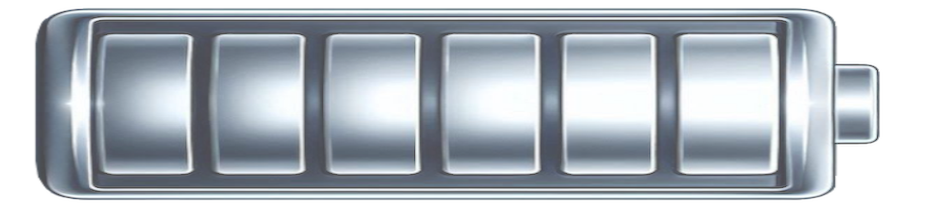
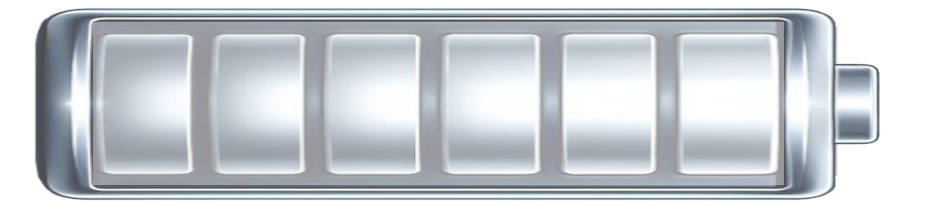
better config settings

diff --git a/Dialogs/CloseAppDialog.xaml b/Dialogs/CloseAppDialog.xaml
@@ -7,6 +7,7 @@
     xmlns:d="http://schemas.microsoft.com/expression/blend/2008"
     xmlns:local="using:BatteryMonitor.Dialogs"
     xmlns:mc="http://schemas.openxmlformats.org/markup-compatibility/2006"
+    x:Name="root"
     BorderBrush="{StaticResource GradientBarBrush}"
     BorderThickness="3"
     CloseButtonText="Cancel"
@@ -47,7 +48,7 @@
             </Grid.ColumnDefinitions>
             <ctrl:CompShadow
                 Grid.Column="0"
-                Margin="0,4,0,0"
+                Margin="0,1,0,0"
                 HorizontalAlignment="Left"
                 VerticalAlignment="Top"
                 BlurRadius="1"

diff --git a/MainPage.xaml b/MainPage.xaml
@@ -93,11 +93,12 @@
             VerticalAlignment="Center">
 
             <Image
+                x:Name="imgBattery"
                 Margin="-10"
                 HorizontalAlignment="Center"
                 VerticalAlignment="Center"
-                Opacity="0.9"
-                Source="ms-appx:///Assets/Background6.png"
+                Opacity="0.75"
+                Source="ms-appx:///Assets/Background5.png"
                 Stretch="Uniform" />
 
             <!--<Rectangle

diff --git a/Converters/AmountToBrushConverter.cs b/Converters/AmountToBrushConverter.cs
@@ -12,38 +12,33 @@ public class AmountToBrushConverter : IValueConverter
 {
     public object? Convert(object value, Type targetType, object parameter, string language)
     {
-        SolidColorBrush result = new(Microsoft.UI.Colors.DodgerBlue);
+        SolidColorBrush result = new(Microsoft.UI.Colors.White);
 
-        if (App.Current.Resources.TryGetValue("SecondaryThemeBrush", out object _))
-            result = (Microsoft.UI.Xaml.Media.SolidColorBrush)App.Current.Resources["SecondaryBrush"];
+        if (App.Current.Resources.TryGetValue("PrimaryBrush", out object _))
+            result = (Microsoft.UI.Xaml.Media.SolidColorBrush)App.Current.Resources["PrimaryBrush"];
 
         if (value == null || App.IsClosing)
             return result;
 
-        if (double.TryParse($"{value}", System.Globalization.NumberStyles.Float | System.Globalization.NumberStyles.AllowThousands | System.Globalization.NumberStyles.AllowCurrencySymbol, System.Globalization.CultureInfo.CurrentCulture, out double amnt))
+        if (value is string str && !string.IsNullOrEmpty(str))
         {
-            switch (amnt)
+            str = str.Replace("%","").Replace("$", "");
+            if (double.TryParse(str, System.Globalization.NumberStyles.Float | System.Globalization.NumberStyles.AllowThousands | System.Globalization.NumberStyles.AllowCurrencySymbol, System.Globalization.CultureInfo.CurrentCulture, out double amnt))
             {
-                #region [Original palette]
-                //case double t when t >= 10000d: return new SolidColorBrush(Microsoft.UI.Colors.Red);
-                //case double t when t >= 5000d:  return new SolidColorBrush(Microsoft.UI.Colors.OrangeRed);
-                //case double t when t >= 1000d:  return new SolidColorBrush(Microsoft.UI.Colors.Orange);
-                //case double t when t >= 500d:   return new SolidColorBrush(Microsoft.UI.Colors.Gold);
-                //case double t when t >= 100d:   return new SolidColorBrush(Microsoft.UI.Colors.Yellow);
-                //default: return result;
-                #endregion
-                case double t when t >= 10000d: return new SolidColorBrush(Windows.UI.Color.FromArgb(255, 255, 10, 5));  
-                case double t when t >= 5000d:  return new SolidColorBrush(Windows.UI.Color.FromArgb(255, 255, 39, 17));
-                case double t when t >= 2000d:  return new SolidColorBrush(Windows.UI.Color.FromArgb(255, 244, 86, 17));
-                case double t when t >= 1000d:  return new SolidColorBrush(Windows.UI.Color.FromArgb(255, 236, 102, 11));
-                case double t when t >= 800d:   return new SolidColorBrush(Windows.UI.Color.FromArgb(255, 242, 139, 11));
-                case double t when t >= 600d:   return new SolidColorBrush(Windows.UI.Color.FromArgb(255, 255, 165, 0));
-                case double t when t >= 400d:   return new SolidColorBrush(Windows.UI.Color.FromArgb(255, 255, 184, 5));
-                case double t when t >= 200d:   return new SolidColorBrush(Windows.UI.Color.FromArgb(255, 255, 201, 5));
-                case double t when t >= 100d:   return new SolidColorBrush(Windows.UI.Color.FromArgb(255, 255, 229, 5));
-                case double t when t >= 50d:   return new SolidColorBrush(Windows.UI.Color.FromArgb(255, 255, 251, 100));
-                //case double t when t >= 50d:   return new SolidColorBrush(Windows.UI.Color.FromArgb(255, 182, 216, 88)); // normalized blend blue and yellow
-                default: return result;
+                switch (amnt)
+                {
+                    case double t when t <= 5d:  return new SolidColorBrush(Windows.UI.Color.FromArgb(255, 255, 10, 5));  
+                    case double t when t <= 10d: return new SolidColorBrush(Windows.UI.Color.FromArgb(255, 255, 39, 17));
+                    case double t when t <= 15d: return new SolidColorBrush(Windows.UI.Color.FromArgb(255, 244, 86, 17));
+                    case double t when t <= 20d: return new SolidColorBrush(Windows.UI.Color.FromArgb(255, 236, 102, 11));
+                    case double t when t <= 25d: return new SolidColorBrush(Windows.UI.Color.FromArgb(255, 242, 139, 11));
+                    case double t when t <= 30d: return new SolidColorBrush(Windows.UI.Color.FromArgb(255, 255, 165, 0));
+                    case double t when t <= 35d: return new SolidColorBrush(Windows.UI.Color.FromArgb(255, 255, 184, 5));
+                    case double t when t <= 40d: return new SolidColorBrush(Windows.UI.Color.FromArgb(255, 255, 201, 5));
+                    case double t when t <= 45d: return new SolidColorBrush(Windows.UI.Color.FromArgb(255, 255, 229, 5));
+                    case double t when t <= 50d: return new SolidColorBrush(Windows.UI.Color.FromArgb(255, 255, 251, 100));
+                    default: return result;
+                }
             }
         }
 

diff --git a/MainPage.xaml.cs b/MainPage.xaml.cs
@@ -5,6 +5,7 @@ using System.Collections.Generic;
 using System.ComponentModel;
 using System.Diagnostics;
 using System.IO;
+using System.Linq;
 using System.Text.RegularExpressions;
 using System.Threading;
 using System.Threading.Tasks;
@@ -23,6 +24,7 @@ public sealed partial class MainPage : Page, INotifyPropertyChanged
 {
     #region [Properties]
     ValueStopwatch _watch { get; set; }
+    List<string> _backgrounds = new List<string>();
     readonly DispatcherQueue _localDispatcher;
     readonly DispatcherQueueSynchronizationContext? _syncContext;
     DispatcherTimer? _tmrUpdate;
@@ -179,6 +181,11 @@ public sealed partial class MainPage : Page, INotifyPropertyChanged
         if (App.Profile != null && App.Profile.logging)
             Logger.SetLoggerFolderPath(AppDomain.CurrentDomain.BaseDirectory);
 
+        if (App.Profile != null && App.Profile.transparency)
+            imgBattery.Opacity = 0.75d;
+        else
+            imgBattery.Opacity = 0.85d;
+
         //if (App.CoreToken != null)
         //{
         //    StreamExtensionTest(
@@ -188,13 +195,40 @@ public sealed partial class MainPage : Page, INotifyPropertyChanged
         //}
 
         "SomeTextToEncrypt".EncryptAsync("KEY").ContinueWith((t) =>
-        {
-            Debug.WriteLine($"Encrypted: {t.Result}");
-            t.Result.DecryptAsync("KEY").ContinueWith((t2) =>
             {
-                Debug.WriteLine($"Decrypted: {t2.Result}");
+                if (!t.IsFaulted)
+                {
+                    Debug.WriteLine($"• Encrypted: {t.Result}");
+                    t.Result.DecryptAsync("KEY").ContinueWith((t2) =>
+                    {
+                        Debug.WriteLine($"• Decrypted: {t2.Result}");
+                    });
+                }
             });
-        });
+
+        // We could just directly set the user's background image name to the control, but this async method is fun to use.
+        Path.Combine(AppContext.BaseDirectory, "Assets").EnumerateFilesWithProgressAsync(searchPattern: "*.png", recursive: false, App.CoreToken != null ? App.CoreToken.Token : CancellationToken.None,
+            (s, e) => {
+                Debug.WriteLine($"• Found: {e.UserState} ({e.ProgressPercentage})");
+            }).ContinueWith((t) => {
+                if (t.IsFaulted)
+                    Debug.WriteLine($"⇒ EnumerateFiles(Faulted): {t.Exception?.GetBaseException().Message}");
+                else {
+                    _backgrounds = t.Result;
+                    if (App.Profile != null && !string.IsNullOrEmpty(App.Profile.backgroundImage))
+                    {
+                        var match = _backgrounds.Where(x => Regex.IsMatch(x, App.Profile.backgroundImage)).FirstOrDefault();
+                        //_backgrounds.RemoveAll(x => !x.Contains(App.Profile.backgroundImage));
+                        if (!string.IsNullOrEmpty(match))
+                        {
+                            _localDispatcher.TryEnqueue(() =>
+                            {
+                                imgBattery.Source = new Microsoft.UI.Xaml.Media.Imaging.BitmapImage(new Uri(match));
+                            });
+                        }
+                    }
+                }
+            }).ConfigureAwait(false);
     }
 
     void ToggleTimer(bool enabled)
@@ -320,7 +354,7 @@ public sealed partial class MainPage : Page, INotifyPropertyChanged
             //OutlineHeight = 74;
             //OutlineWidth = fullLength;
 
-            FillHeight = 76;
+            FillHeight = App.Profile != null ? App.Profile.fillHeight : 78;
             FillWidth = barLength;
 
             switch (percentage)

diff --git a/Support/Extensions.cs b/Support/Extensions.cs
@@ -3312,8 +3312,45 @@ public static class Extensions
         return Convert.ToHexString(bytes).ToLower();
     }
 
-    /// <summary>
-    /// <code>
+    /// <summary><code>
+    ///  AppContext.BaseDirectory.EnumerateFilesWithProgressAsync(searchPattern: "*.dll", recursive: false, App.CoreToken != null ? App.CoreToken.Token : CancellationToken.None,
+    ///     (s, e) => {
+    ///        Debug.WriteLine($"• Found: {e.UserState}");
+    ///        Debug.WriteLine($"• Progress: {e.ProgressPercentage}");
+    ///     }).ContinueWith((t) => {
+    ///        if (t.IsFaulted)
+    ///           Debug.WriteLine($"⇒ EnumerateFilesWithProgressAsync(Faulted): {t.Exception?.GetBaseException().Message}");
+    ///        else
+    ///           Debug.WriteLine($"⇒ EnumerateFilesWithProgressAsync(Completed): {t.Result.Count} files");
+    ///  }).ConfigureAwait(false);
+    /// </code></summary>
+    public static async Task<List<string>> EnumerateFilesWithProgressAsync(this string rootPath, string searchPattern = "*.*", bool recursive = true, CancellationToken? cancellationToken = null, ProgressChangedEventHandler? progressHandler = null)
+    {
+        int count = 0;
+        var files = new List<string>();
+        await Task.Run(() =>
+        {
+            var searchOption = recursive ? SearchOption.AllDirectories : SearchOption.TopDirectoryOnly;
+            try
+            {
+                foreach (var file in Directory.EnumerateFiles(rootPath, searchPattern, searchOption))
+                {
+                    cancellationToken?.ThrowIfCancellationRequested();
+                    files.Add(file);
+                    count++;
+                    progressHandler?.Invoke(null, new ProgressChangedEventArgs(count, file));
+                }
+            }
+            catch (Exception ex) when (ex is not OperationCanceledException)
+            {
+                progressHandler?.Invoke(null, new ProgressChangedEventArgs(-1, ex.Message));
+            }
+        });
+
+        return files;
+    }
+
+    /// <summary><code>
     ///   ulong currentPosition = 0;
     ///   using (FileStream input = File.OpenRead(inFileName))
     ///   {
@@ -3326,8 +3363,7 @@ public static class Extensions
     ///         });
     ///      }
     ///   }
-    /// </code>
-    /// </summary>
+    /// </code></summary>
     public static void CopyTo(this Stream From, Stream To, long Length = -1, CancellationToken CancelToken = default, ProgressChangedEventHandler? ProgressHandler = null)
     {
         if (From is null)
@@ -6604,5 +6640,6 @@ public static class Extensions
             Debug.WriteLine($"[INFO] File has no thumbnail associated '{file.Name}'");
         }
     }
+
     #endregion
 }

diff --git a/Dialogs/CloseAppDialog.xaml.cs b/Dialogs/CloseAppDialog.xaml.cs
@@ -8,6 +8,7 @@ using Microsoft.UI.Xaml;
 using Microsoft.UI.Xaml.Controls;
 using Microsoft.UI.Xaml.Controls.Primitives;
 using Microsoft.UI.Xaml.Data;
+using Microsoft.UI.Xaml.Hosting;
 using Microsoft.UI.Xaml.Input;
 using Microsoft.UI.Xaml.Media;
 using Microsoft.UI.Xaml.Navigation;
@@ -16,5 +17,24 @@ namespace BatteryMonitor.Dialogs;
 
 public sealed partial class CloseAppDialog : ContentDialog
 {
-    public CloseAppDialog() => this.InitializeComponent();
+    public CloseAppDialog()
+    {
+        this.InitializeComponent();
+        this.Loaded += CloseAppDialogOnLoaded;
+    }
+
+    void CloseAppDialogOnLoaded(object sender, RoutedEventArgs e)
+    {
+        // A semi-transparent material that uses multiple effects, including blur and noise texture.
+        // NOTE: When the timer updates the battery's brush, it will cause the acrylic translucency to be redrawn.
+        root.Background = new AcrylicBrush()
+        {
+            TintTransitionDuration = TimeSpan.FromSeconds(0.125),
+            TintColor = Microsoft.UI.Colors.Navy,
+            TintLuminosityOpacity = 0.1,
+            TintOpacity = 0.1f,
+            FallbackColor = Windows.UI.Color.FromArgb(255,21,61,81),
+            Opacity = 0.9f
+        };
+    }
 }

diff --git a/MainWindow.xaml.cs b/MainWindow.xaml.cs
@@ -3,6 +3,7 @@ using System.ComponentModel;
 using System.Diagnostics;
 
 using Microsoft.UI.Content;
+using Microsoft.UI.Composition;
 using Microsoft.UI.Windowing;
 using Microsoft.UI.Xaml;
 using Microsoft.UI.Xaml.Controls;
@@ -26,6 +27,7 @@ public sealed partial class MainWindow : Window, INotifyPropertyChanged
     ContentCoordinateConverter _coordinateConverter;
     OverlappedPresenter? _overlapPresenter;
     public event PropertyChangedEventHandler? PropertyChanged;
+    
     bool _isBusy = false;
     public bool IsBusy
     {
@@ -254,7 +256,8 @@ public sealed partial class MainWindow : Window, INotifyPropertyChanged
         gb.EndPoint = endPoint;
 
         // Create a sprite visual and assign the gradient brush.
-        var spriteVisual = Compositor.CreateSpriteVisual();
+        var spriteVisual = compositor.CreateSpriteVisual();
+        if (spriteVisual == null) { return; }
         spriteVisual.Brush = gb;
 
         // Set the size of the sprite visual to cover the entire window.

diff --git a/App.xaml.cs b/App.xaml.cs
@@ -356,6 +356,8 @@ public partial class App : Application
                 firstRun = true,
                 logging = false,
                 transparency = false,
+                fillHeight = 78,
+                backgroundImage = "Background6.png",
             };
             ConfigHelper.SaveConfig(Profile);
             AppWin?.Resize(new Windows.Graphics.SizeInt32(m_width, m_height));

diff --git a/Support/ConfigHelper.cs b/Support/ConfigHelper.cs
@@ -67,6 +67,14 @@ public class Config
     public int refresh = 3000;  // ms
 
     [JsonInclude]
+    [JsonPropertyName("fillheight")]
+    public int fillHeight = 78;  // px
+
+    [JsonInclude]
+    [JsonPropertyName("backgroundimage")]
+    public string backgroundImage = "Background6.png";
+
+    [JsonInclude]
     [JsonPropertyName("topmost")]
     public bool topmost = true;
 

diff --git a/README.md b/README.md
@@ -14,7 +14,7 @@
 
 ## 📰 Description
 - A [WinUI 3](https://learn.microsoft.com/en-us/windows/apps/winui/winui3/) app which uses the [Windows.Devices.Power.Battery](https://learn.microsoft.com/en-us/uwp/api/windows.devices.power.battery?view=winrt-26100) library to render a battery meter.
-- There are six battery image backgrounds to choose from.
+- There are seven battery image backgrounds to choose from.
 - This source also contains plenty of tips and tricks for any [WinUI 3](https://learn.microsoft.com/en-us/windows/apps/winui/winui3/) application.
 - Don't forget to give a ⭐ if you find any of my code helpful or educational.
  
